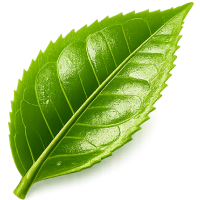
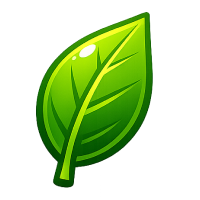
콤보 버튼 가열 연출 및 중간 연출 낙하 모션 추가
- 콤보 단계별(예열/가열/점화) 버튼 가열 연출, 불꽃 색은 팀 색상 적용
- 중간 연출을 중앙에서 솟았다 살랑 낙하하는 모션으로 변경, 크기 축소
- 큰 연출 재료 이미지 개수 증가, 교체된 green/red 이미지 반영
- 연출 배너 폰트 블랙+화이트 스트로크로 변경

diff --git a/app.js b/app.js
@@ -11,6 +11,7 @@ const app = {
   combo: 0,
   lastTapTime: 0,
   comboTimer: null,
+  heatTimer: null,
 
   init() {
     this.engine = initGameEngine(C);
@@ -23,12 +24,14 @@ const app = {
     this.screen = 'battle';
     this.engine.startRealtimeSimulation();
     this.combo = 0;
+    clearTimeout(this.heatTimer);
     this.render();
     this.loop();
   },
   goResult() {
     this.engine.stopRealtimeSimulation();
     cancelAnimationFrame(this.rafId);
+    clearTimeout(this.heatTimer);
     this.screen = 'result';
     this.render();
   },
@@ -102,6 +105,9 @@ const app = {
     this.lastTapTime = now;
     this.showCombo(team);
 
+    // 콤보가 쌓일수록 버튼이 달궈지다 불타오름
+    this.applyHeat(team);
+
     // 떠오르는 숫자 + 파티클
     this.spawnFloater(ev, team);
     this.spawnParticles(ev, team);
@@ -122,6 +128,39 @@ const app = {
       clearTimeout(this.comboTimer);
       this.comboTimer = setTimeout(() => c.classList.remove('show'), 800);
     }
+  },
+
+  // ==================== 콤보 버튼 가열(Heat) 연출 ====================
+  heatLevel() {
+    if (this.combo >= 20) return 3;  // 점화
+    if (this.combo >= 10) return 2;  // 가열
+    if (this.combo >= 5) return 1;   // 예열
+    return 0;
+  },
+
+  applyHeat(team) {
+    const btn = document.getElementById('tapBtn');
+    if (!btn) return;
+    const lv = this.heatLevel();
+    // 불꽃 색을 응원 팀 색상으로
+    btn.style.setProperty('--heat', team.color);
+    btn.style.setProperty('--heat-dark', team.colorDark);
+    btn.classList.toggle('heat-1', lv >= 1);
+    btn.classList.toggle('heat-2', lv >= 2);
+    btn.classList.toggle('heat-3', lv >= 3);
+
+    // 점화 단계에서 약한 진동
+    if (lv >= 3 && navigator.vibrate) navigator.vibrate(10);
+
+    // 콤보가 끊기면(연타 멈추면) 버튼이 식음
+    clearTimeout(this.heatTimer);
+    this.heatTimer = setTimeout(() => this.coolDown(), C.comboWindow + 250);
+  },
+
+  coolDown() {
+    this.combo = 0;
+    const btn = document.getElementById('tapBtn');
+    if (btn) btn.classList.remove('heat-1', 'heat-2', 'heat-3');
   },
 
   spawnFloater(ev, team) {
@@ -201,15 +240,18 @@ const app = {
     const banner = document.createElement('div');
     banner.className = 'fx-banner ' + tier;
     banner.textContent = big ? `🔥 ${count} COMBO!` : `${count} 연타!`;
-    banner.style.color = color;
     layer.appendChild(banner);
     setTimeout(() => banner.remove(), 1000);
 
     // 중앙 파티클 분출
     this.fxBurst(layer, colors, big ? 30 : 10, big ? 230 : 90);
 
-    // 진영 재료 이미지(말차=녹차잎 / 팥빙=팥)가 펑 터지듯 분출
-    if (team.fxImg) this.fxImgBurst(layer, team.fxImg, big ? 20 : 9, big ? 240 : 120, big ? 46 : 32);
+    // 진영 재료 이미지(말차=녹차잎 / 팥빙=팥)
+    // 중간: 중앙에서 톡 솟았다 살랑이며 낙하 / 큰: 사방으로 펑 폭발
+    if (team.fxImg) {
+      if (big) this.fxImgBurst(layer, team.fxImg, 38, 50, 1300);
+      else this.fxImgFall(layer, team.fxImg, 12, 26, 1900);
+    }
 
     // 중간 연출: 가벼운 흔들림 + 진동 후 종료
     if (!big) {
@@ -278,10 +320,11 @@ const app = {
     }
   },
 
-  // 진영 재료 이미지가 중앙에서 펑 터지듯 사방으로 분출
-  fxImgBurst(layer, src, n, spread, size) {
+  // 진영 재료 이미지가 중앙에서 펑 터져 사방으로 퍼지며 화면 밖으로 날아감
+  fxImgBurst(layer, src, n, size, dur) {
     const rect = layer.getBoundingClientRect();
     const cx = rect.width / 2, cy = rect.height * 0.42;
+    const reach = Math.hypot(rect.width, rect.height); // 화면 대각선 = 어느 방향이든 밖으로 나감
     for (let i = 0; i < n; i++) {
       const img = document.createElement('img');
       img.className = 'fx-pop';
@@ -292,12 +335,48 @@ const app = {
       img.style.left = cx + 'px';
       img.style.top = cy + 'px';
       const ang = (Math.PI * 2 * i) / n + Math.random() * 0.5;
-      const dist = spread * (0.5 + Math.random() * 0.7);
+      const dist = reach * (0.62 + Math.random() * 0.45);
       img.style.setProperty('--dx', Math.cos(ang) * dist + 'px');
-      img.style.setProperty('--dy', (Math.sin(ang) * dist + 50) + 'px'); // 약간의 중력
+      img.style.setProperty('--dy', Math.sin(ang) * dist + 'px');
       img.style.setProperty('--rot', (Math.random() * 720 - 360) + 'deg');
+      img.style.animationDuration = dur + 'ms';
       layer.appendChild(img);
-      setTimeout(() => img.remove(), 950);
+      setTimeout(() => img.remove(), dur + 60);
+    }
+  },
+
+  // 중간 연출: 중앙에서 잎/팥이 톡 솟았다가 살랑이며 화면 아래로 떨어짐
+  fxImgFall(layer, src, n, size, dur) {
+    const rect = layer.getBoundingClientRect();
+    const cx = rect.width / 2, cy = rect.height * 0.42;
+    for (let i = 0; i < n; i++) {
+      const img = document.createElement('img');
+      img.className = 'fx-leaf';
+      img.src = src;
+      img.alt = '';
+      const sz = size * (0.7 + Math.random() * 0.7);
+      img.style.width = img.style.height = sz + 'px';
+      img.style.left = cx + 'px';
+      img.style.top = cy + 'px';
+      // 위쪽 부채꼴로 톡 솟아오름
+      const ang = -Math.PI * (0.18 + Math.random() * 0.64);
+      const pop = 55 + Math.random() * 80;
+      const x1 = Math.cos(ang) * pop;
+      const y1 = Math.sin(ang) * pop; // 음수 = 위로
+      // 좌우 살랑 드리프트 + 중력으로 화면 아래까지 낙하
+      const x2 = x1 + (Math.random() - 0.5) * 90;
+      const y2 = rect.height * 0.78 + Math.random() * rect.height * 0.35;
+      const r1 = Math.random() * 120 - 60;
+      const r2 = r1 + (Math.random() * 600 - 300);
+      img.style.setProperty('--x1', x1 + 'px');
+      img.style.setProperty('--y1', y1 + 'px');
+      img.style.setProperty('--x2', x2 + 'px');
+      img.style.setProperty('--y2', y2 + 'px');
+      img.style.setProperty('--r1', r1 + 'deg');
+      img.style.setProperty('--r2', r2 + 'deg');
+      img.style.animationDuration = (dur + Math.random() * 500) + 'ms';
+      layer.appendChild(img);
+      setTimeout(() => img.remove(), dur + 700);
     }
   },
 

diff --git a/style.css b/style.css
@@ -348,9 +348,54 @@ html, body {
   display: flex; flex-direction: column; align-items: center; gap: 4px;
   transition: transform 0.08s ease, box-shadow 0.08s ease;
 }
-.tap-button .big { font-size: 20px; font-weight: 900; }
-.tap-button .small { font-size: 12px; font-weight: 600; opacity: 0.9; }
+.tap-button { position: relative; --heat: #ff7a1a; --heat-dark: #d7280a; }
+.tap-button .big { font-size: 20px; font-weight: 900; position: relative; z-index: 2; }
+.tap-button .small { font-size: 12px; font-weight: 600; opacity: 0.9; position: relative; z-index: 2; }
 .tap-button:active, .tap-button.squash { transform: scale(0.95); box-shadow: 0 3px 8px rgba(0,0,0,0.16); }
+
+/* ==================== 콤보 버튼 가열(Heat) 연출 — 팀 색상 ==================== */
+/* 버튼 위로 번지는 불꽃 오버레이 */
+.tap-button::before {
+  content: ''; position: absolute; inset: 0; border-radius: inherit; z-index: 1;
+  pointer-events: none; opacity: 0; transition: opacity 0.25s ease;
+}
+/* Lv1 예열 — 은은한 글로우 */
+.tap-button.heat-1 {
+  box-shadow: 0 6px 18px color-mix(in srgb, var(--heat) 38%, transparent),
+              0 0 16px 2px color-mix(in srgb, var(--heat) 50%, transparent);
+}
+/* Lv2 가열 — 글로우 강화 + 불꽃 오버레이 + 펄스 */
+.tap-button.heat-2 {
+  box-shadow: 0 6px 22px color-mix(in srgb, var(--heat) 50%, transparent),
+              0 0 28px 5px color-mix(in srgb, var(--heat) 68%, transparent);
+  animation: heatPulse 0.5s ease-in-out infinite;
+}
+.tap-button.heat-2::before {
+  opacity: 1;
+  background: linear-gradient(180deg, transparent 25%, color-mix(in srgb, var(--heat) 36%, transparent) 100%);
+}
+/* Lv3 점화 — 불타오르며 흔들림 */
+.tap-button.heat-3 {
+  box-shadow: 0 8px 28px color-mix(in srgb, var(--heat) 60%, transparent),
+              0 0 44px 10px color-mix(in srgb, var(--heat) 82%, transparent);
+  animation: heatShake 0.16s linear infinite;
+}
+.tap-button.heat-3::before {
+  opacity: 1;
+  background: linear-gradient(180deg,
+    color-mix(in srgb, var(--heat) 32%, transparent) 0%,
+    color-mix(in srgb, var(--heat) 52%, transparent) 55%,
+    color-mix(in srgb, var(--heat-dark) 66%, transparent) 100%);
+  animation: flameFlicker 0.22s ease-in-out infinite alternate;
+}
+@keyframes heatPulse { 50% { transform: scale(1.025); } }
+@keyframes heatShake {
+  0%,100% { transform: translate(0,0); }
+  25% { transform: translate(-1.5px,0.5px); }
+  50% { transform: translate(1.5px,-0.5px); }
+  75% { transform: translate(-1px,1px); }
+}
+@keyframes flameFlicker { from { opacity: 0.7; } to { opacity: 1; } }
 
 /* 배틀 캐시백 */
 .battle-cashback {
@@ -390,6 +435,7 @@ html, body {
   transform: translate(-50%,-50%) scale(0.2);
   font-weight: 900; letter-spacing: -0.04em; white-space: nowrap;
   text-align: center; opacity: 0;
+  color: #111;
   -webkit-text-stroke: 2px #fff;
   paint-order: stroke fill;
   text-shadow: 0 6px 0 rgba(0,0,0,0.10), 0 10px 26px rgba(0,0,0,0.28);
@@ -427,22 +473,40 @@ html, body {
   position: absolute; pointer-events: none; z-index: 52;
   object-fit: contain; transform: translate(-50%, -50%);
   filter: drop-shadow(0 3px 5px rgba(0,0,0,0.22));
-  animation: fxPop 0.9s cubic-bezier(0.16,1,0.3,1) forwards;
-  will-change: transform, opacity;
+  animation: fxPop 1.15s cubic-bezier(0.22,0.7,0.3,1) forwards;
+  will-change: transform;
 }
+/* 오파시티로 사라지지 않고 퍼지면서 화면 밖으로 (fx-layer overflow:hidden으로 클립) */
 @keyframes fxPop {
   0%   { opacity: 0; transform: translate(-50%,-50%) scale(0.2) rotate(0deg); }
-  18%  { opacity: 1; transform: translate(-50%,-50%) scale(1.15) rotate(40deg); }
-  100% { opacity: 0;
-         transform: translate(calc(-50% + var(--dx)), calc(-50% + var(--dy))) scale(0.85) rotate(var(--rot, 360deg)); }
+  10%  { opacity: 1; transform: translate(-50%,-50%) scale(1.15) rotate(30deg); }
+  100% { opacity: 1;
+         transform: translate(calc(-50% + var(--dx)), calc(-50% + var(--dy))) scale(1) rotate(var(--rot, 360deg)); }
 }
 
-/* 진영 재료 이미지 컨페티 낙하 (큰 연출) */
+/* 중간 연출: 중앙에서 톡 솟았다가 살랑이며 낙하 (오파시티 없이 화면 밖으로) */
+.fx-leaf {
+  position: absolute; pointer-events: none; z-index: 52;
+  object-fit: contain; transform: translate(-50%, -50%);
+  filter: drop-shadow(0 3px 5px rgba(0,0,0,0.2));
+  animation: fxLeafFall 1.9s forwards;
+  will-change: transform;
+}
+@keyframes fxLeafFall {
+  0%   { opacity: 0; transform: translate(-50%,-50%) scale(0.2) rotate(0deg);
+         animation-timing-function: cubic-bezier(0.12,0.7,0.3,1); }
+  16%  { opacity: 1; transform: translate(calc(-50% + var(--x1)), calc(-50% + var(--y1))) scale(1.05) rotate(var(--r1));
+         animation-timing-function: cubic-bezier(0.45,0,0.75,1); }
+  100% { opacity: 1; transform: translate(calc(-50% + var(--x2)), calc(-50% + var(--y2))) scale(1) rotate(var(--r2)); }
+}
+
+/* 진영 재료 이미지 컨페티 낙하 (큰 연출) — 오파시티 없이 화면 아래로 통과 */
 .fx-confetti-img {
   position: absolute; top: -36px; pointer-events: none; z-index: 51;
   object-fit: contain; filter: drop-shadow(0 2px 4px rgba(0,0,0,0.18));
-  animation: fall linear forwards;
+  animation: fallImg linear forwards;
 }
+@keyframes fallImg { to { transform: translateY(125vh) rotate(540deg); } }
 
 /* 강한 흔들림 (큰/메가 연출) */
 .shake-hard { animation: shakeHard 0.5s; }
